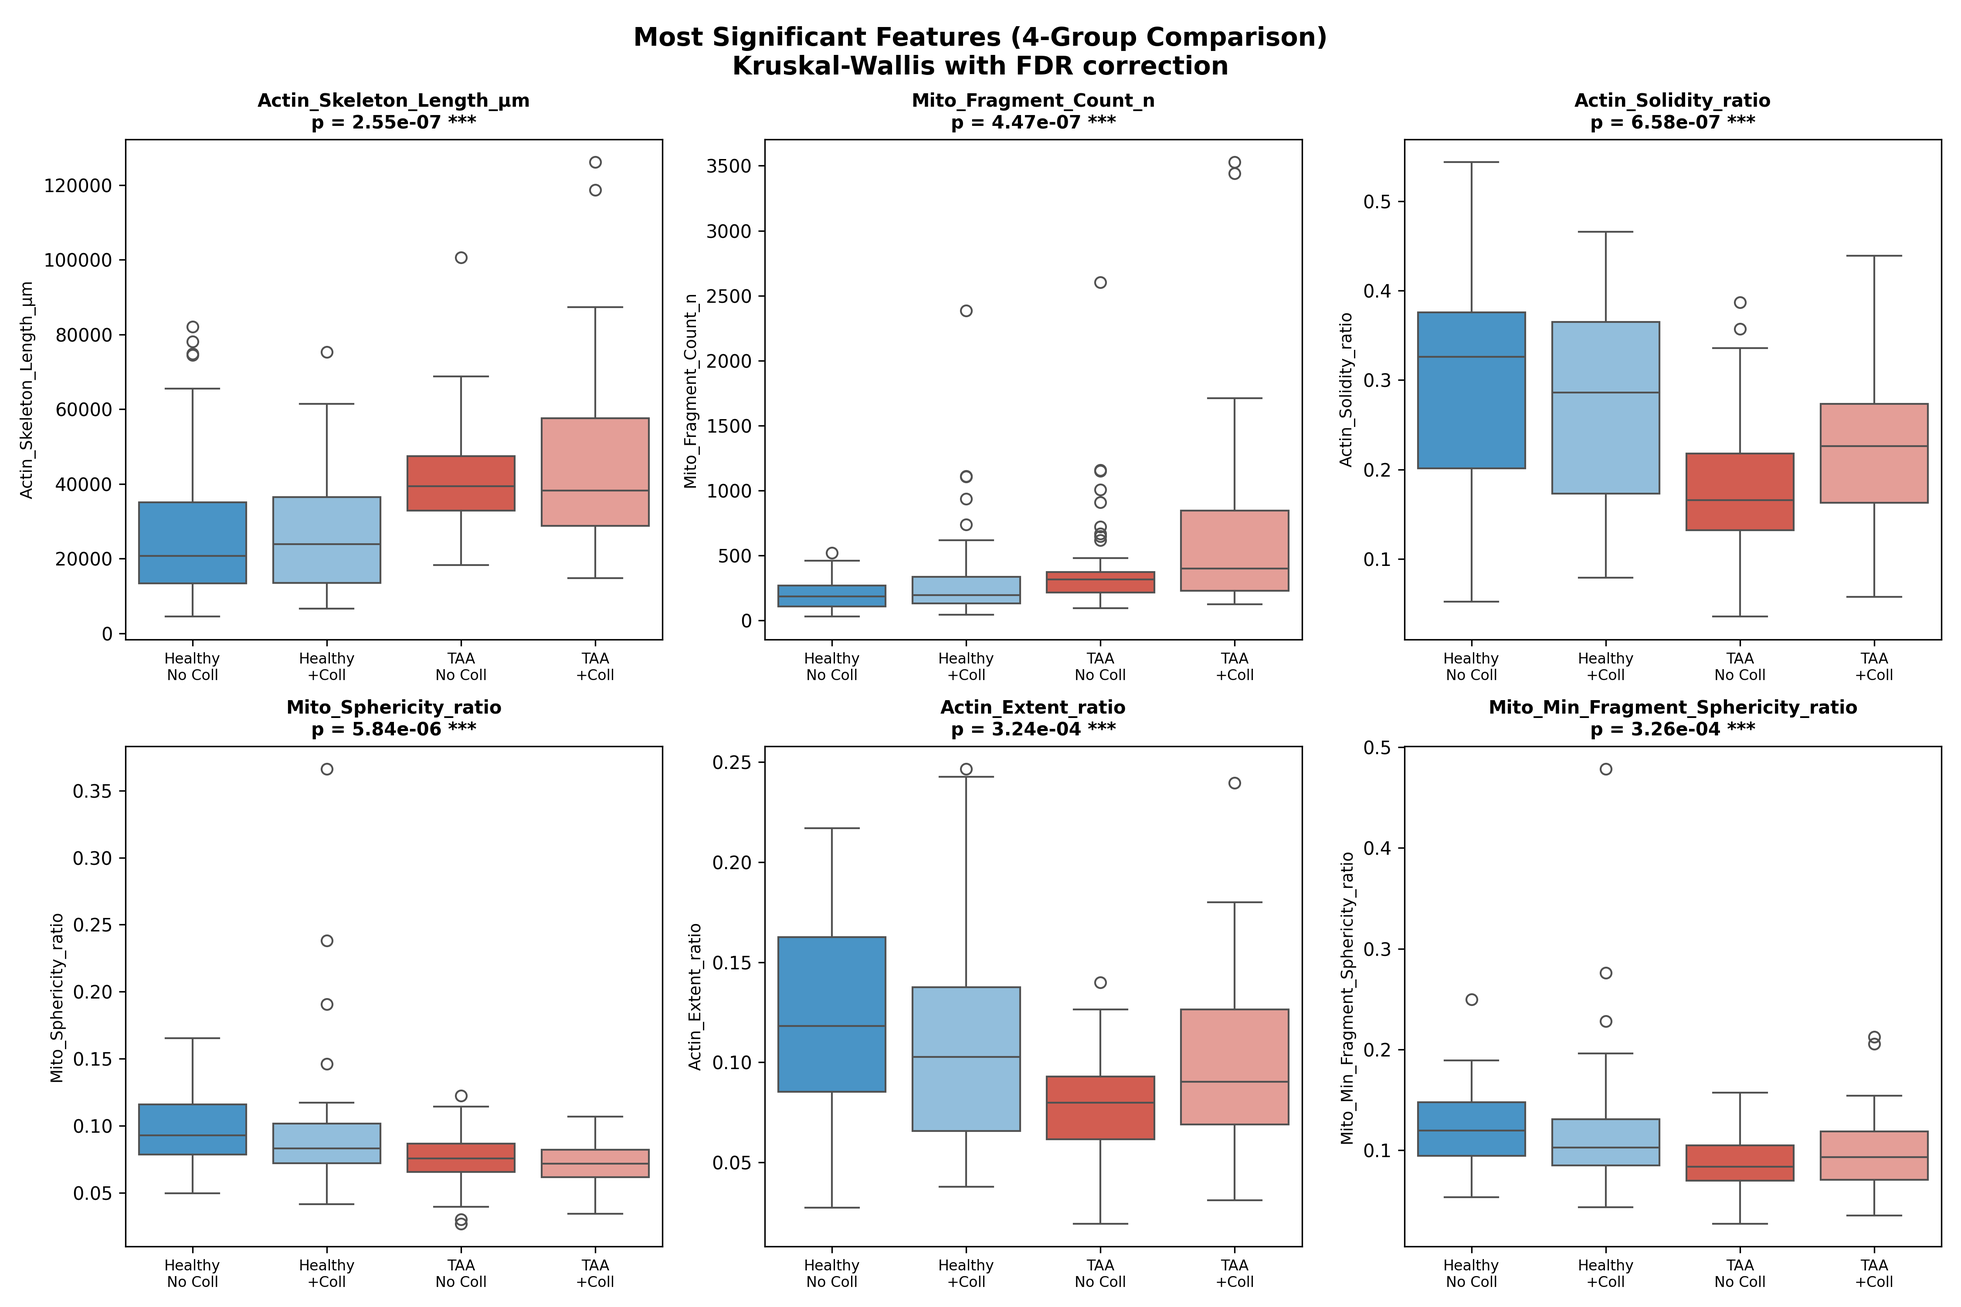
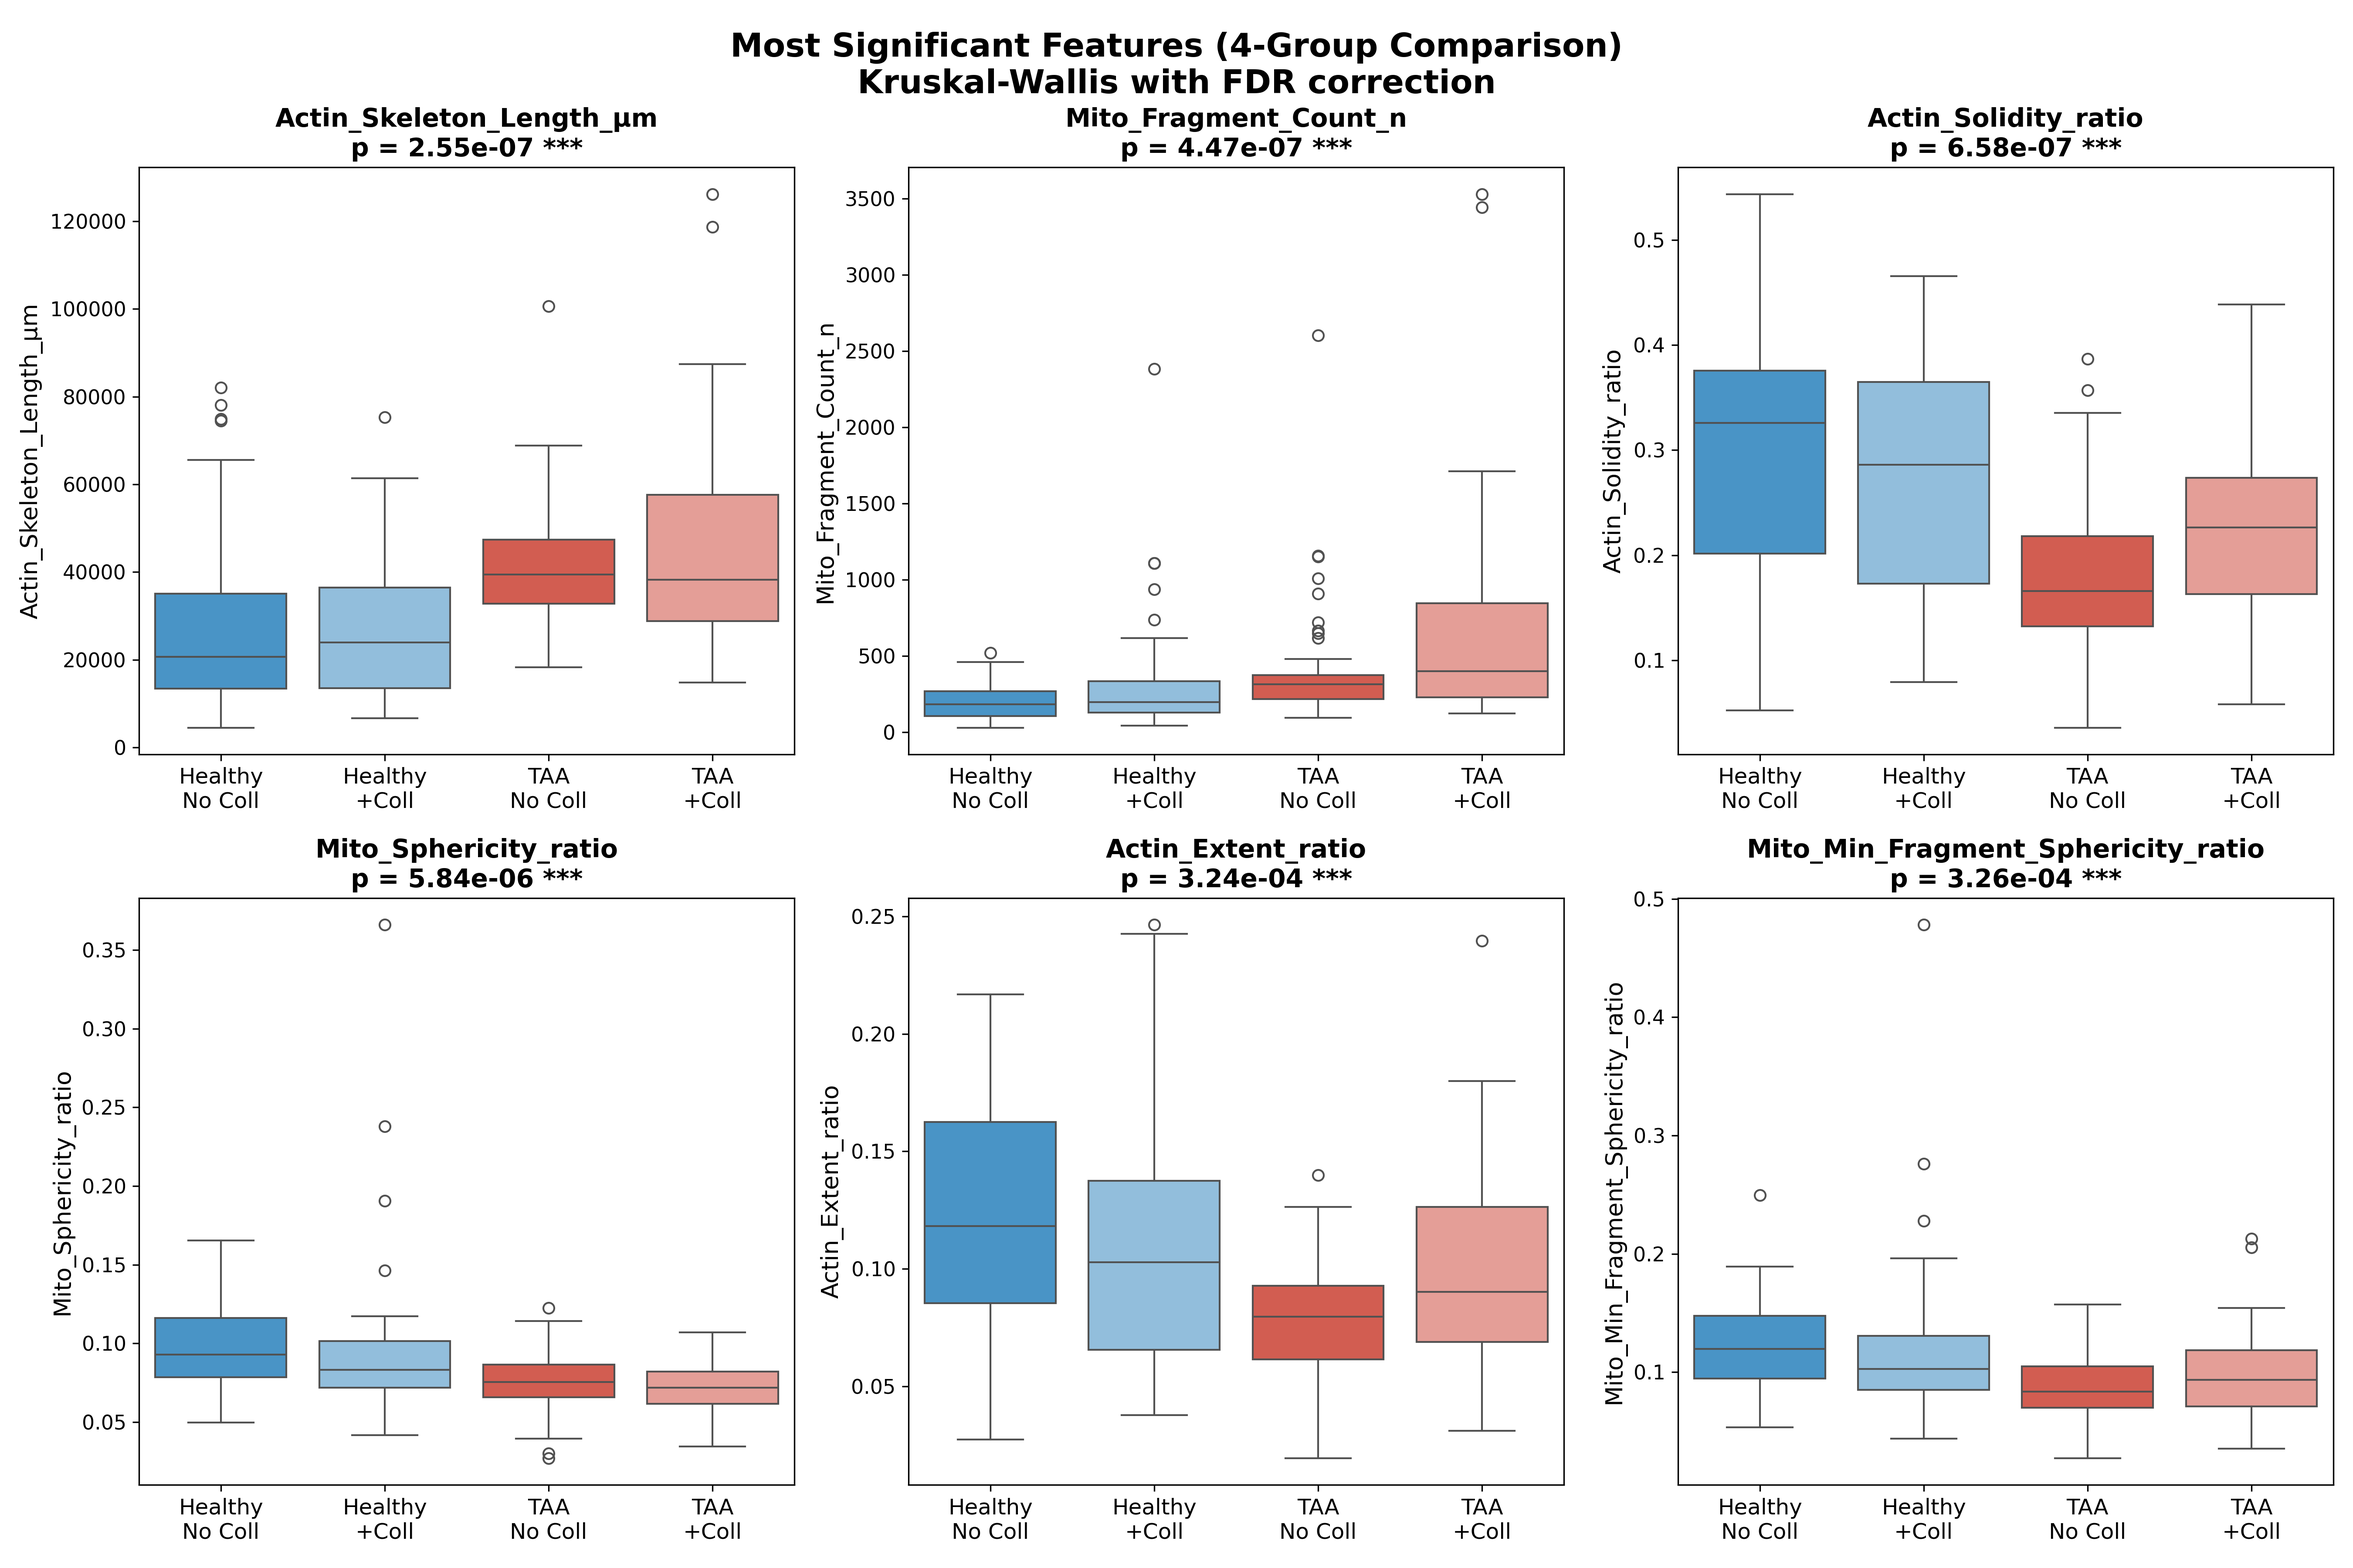
Increase font sizes in 4-group boxplot for presentation

diff --git a/src/analysis/src/analysis/stats_HealthyvsTAAxCollvsNoColl.py b/src/analysis/src/analysis/stats_HealthyvsTAAxCollvsNoColl.py
@@ -243,7 +243,7 @@ def main():
     # 9. Violin plots for top 6 features
     top_features = results_df.head(6)['Feature'].tolist()
     
-    fig, axes = plt.subplots(2, 3, figsize=(15, 10))
+    fig, axes = plt.subplots(2, 3, figsize=(18, 12))
     axes = axes.flatten()
     
     palette = {
@@ -275,13 +275,14 @@ def main():
         else:
             p_str = f"p = {p_val:.4f}"
         
-        ax.set_title(f"{feature}\n{p_str}", fontsize=10, fontweight='bold')
-        ax.set_xticklabels(group_labels, fontsize=8)
+        ax.set_title(f"{feature}\n{p_str}", fontsize=14, fontweight='bold')
+        ax.set_xticklabels(group_labels, fontsize=12)
         ax.set_xlabel('')
-        ax.set_ylabel(feature, fontsize=9)
+        ax.set_ylabel(feature, fontsize=13)
+        ax.tick_params(axis='y', labelsize=11)
     
     plt.suptitle('Most Significant Features (4-Group Comparison)\nKruskal-Wallis with FDR correction', 
-                 fontsize=14, fontweight='bold')
+                 fontsize=18, fontweight='bold')
     plt.tight_layout()
     plt.savefig(f'{OUTPUT_DIR}/top_features_boxplots_4groups.png', dpi=300)
     print(f"Saved: {OUTPUT_DIR}/top_features_boxplots_4groups.png")
